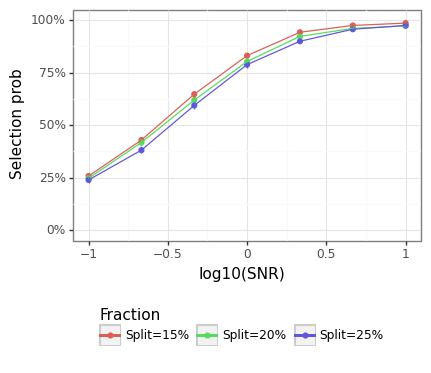
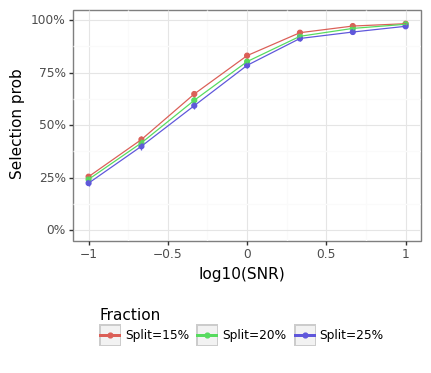
adding seeding to examples; splitting posi scripts for readability

Changed region(s): [[0.181, 0.2064, 0.5429, 0.5013], [0.5731, 0.059, 0.9652, 0.1769], [0.5429, 0.1769, 0.5731, 0.2064]]

diff --git a/sntn/_lasso.py b/sntn/_lasso.py
@@ -1,0 +1,139 @@
+"""
+Workhorse classes for doing marginal screening (posi_marginal_screen) and Lasso inference (posi_lasso)
+"""
+
+# External
+import numpy as np
+import pandas as pd
+from math import isclose
+from warnings import warn
+from glmnet.linear import ElasticNet
+from sklearn.model_selection import KFold
+# Internal
+from sntn.dists import tnorm, nts
+from sntn._split import _split_yx
+from sntn.utilities.linear import ols
+from sntn.utilities.utils import get_valid_kwargs_cls, cvec, rvec
+
+
+class _posi_lasso(_split_yx):
+    def __init__(self, lam:float, y:np.ndarray, x:np.ndarray, **kwargs):
+        super().__init__(y, x, **get_valid_kwargs_cls(_split_yx, **kwargs))
+        """
+        Carries out selective inference for the Lasso problem
+
+        Parameters
+        ==========
+        lam:                Regularization penality
+        y:                  (n,) array of responses
+        x:                  (n,p) array of covariates
+        **kwargs:           Passed into _split_yx(**kwargs), Lasso(**kwargs) and ols(**kwargs)
+        """
+        # Input checks
+        assert lam > 0, 'lam needs to be greater than zero'
+        self.lam = lam
+        # Run the Lasso
+        xtil, self.xmu_screen, self.xstd_screen = self._normalize_x(self.x_screen, return_mu_sd=True)
+        lam_max = np.max( np.abs(xtil.T.dot(self.y_screen)) / len(xtil) )
+        kwargs_lasso = {'alpha':1, 'n_splits':0, 'standardize':False, 'lambda_path':np.array([lam_max,lam])}
+        kwargs_lasso = {**kwargs_lasso, **get_valid_kwargs_cls(ElasticNet, **kwargs)}
+        self.mdl_lasso = ElasticNet(**kwargs_lasso)
+        self.mdl_lasso.fit(X=xtil, y=self.y_screen)
+        bhat_lasso = self.mdl_lasso.coef_path_[:,1]
+        self.cidx_screen = np.where(bhat_lasso != 0)[0]
+        self.n_cidx_screened = len(self.cidx_screen)
+        if self.n_cidx_screened >= 1:
+            # Fit an OLS model on the screened and split portion of the data
+            ols_kwargs = get_valid_kwargs_cls(ols, **kwargs)
+            self.ols_screen = ols(self.y_screen, self.x_screen[:,self.cidx_screen], **ols_kwargs)
+            if self.frac_split > 0:
+                n_split = self.x_split.shape[0]
+                if n_split > self.n_cidx_screened + 1:
+                    self.ols_split = ols(self.y_split, self.x_split[:,self.cidx_screen], **ols_kwargs)
+                else:
+                    warn(f'A total of {self.n_cidx_screened} columns were screened for testing, but we only have {n_split} observations (classical inference is not possible)')
+        else:
+            warn(f'No variables were screened')
+        
+
+    @staticmethod
+    def _normalize_x(x:np.ndarray, return_mu_sd:bool=False):
+        """Internal method to normalize x and store scaling terms, if necessary"""
+        mu, sd = x.mean(axis=0), x.std(axis=0)
+        xtil = (x-mu)/sd
+        if return_mu_sd:
+            return xtil, mu, sd
+        else:
+            return xtil
+
+
+    def estimate_sigma2(self, num_folds:int=5) -> None:
+        """
+        Estimates the variance of residual of the Lasso model. For the screened portion of the data, this amounts to doing k-fold CV
+
+        Parameters
+        ==========
+        num_folds:                  How many folds of CV to use (note that seed will be inherited from construction)
+
+        Attributes
+        ==========
+        sig2hat:                    Weighted average of the (unbiased) split estimate + CV-based screening
+        se_bhat_screen:             Standard error of the beta coefficients using sig2hat for the screened estimate
+        se_bhat_split:              Standard error of the beta coefficients using sig2hat from the split estimate (if frac_split>0)
+        """
+        # Estimate the variance using K-Fold CV
+        folder = KFold(n_splits=num_folds, shuffle=True, random_state=self.seed)
+        y_hat = np.zeros(self.y_screen.shape)
+        for ridx, tidx in folder.split(self.x_screen):
+            x_train, x_test = self.x_screen[ridx], self.x_screen[tidx]
+            y_train, y_test = self.y_screen[ridx], self.y_screen[tidx]
+            tmp_model = self.__class__(lam=self.lam, y=y_train, x=x_train, frac_split=0.0)
+            y_hat[tidx] = tmp_model.ols_screen.predict(x_test[:,tmp_model.cidx_screen])
+        sig2hat_screen = np.mean((self.y_screen - y_hat)**2)
+        
+        # If carving exists, use it
+        sig2hat_split = 0
+        if self.frac_split > 0:
+            sig2hat_split = self.ols_split.sig2hat
+        
+        # Use data-weighted final value
+        self.sig2hat = (1-self.frac_split)*sig2hat_screen + self.frac_split*sig2hat_split
+
+    def get_A(self) -> np.ndarray:
+        """
+        Calculates the A from Ay <= b for the Lasso procedure
+        
+        Returns
+        =======
+        mat_A:          A (..., n) matrix
+        """
+        # ...
+        breakpoint()
+        mat_A = np.zeros(10)
+        return mat_A
+        
+    def get_b(self) -> np.ndarray:
+        """
+        Calculates the b from Ay <= b for the Lasso procedure
+        
+        Returns
+        =======
+        vec_b:          A (..., ) array
+        """
+        # ...
+        vec_b = np.zeros(10)
+        return vec_b
+
+    def inference_on_screened(self, sigma2:float or int) -> tuple:
+        """
+        Runs post selection inference for the screened variables
+
+        Returns
+        =======
+        A tuple containing (alph_den, v_neg, v_pos) which is equivalent to the tnorm(; sigma2, a, b) terms
+        """
+        # See Lee (2016) for derivations of key terms
+        mat_A = self.get_A()
+        vec_b = self.get_b()
+        # x_s = self.x_screen[:,self.cidx_screen]
+

diff --git a/sntn/_screening.py b/sntn/_screening.py
@@ -1,5 +1,5 @@
 """
-Workhorse classes for doing marginal screening (posi_marginal_screen) and Lasso inference (posi_lasso)
+Workhorse class for doing marginal screening 
 """
 
 # External
@@ -7,100 +7,12 @@ import numpy as np
 import pandas as pd
 from math import isclose
 from warnings import warn
-from glmnet.linear import ElasticNet
 from sklearn.model_selection import KFold
 # Internal
 from sntn.dists import tnorm, nts
 from sntn._split import _split_yx
 from sntn.utilities.linear import ols
 from sntn.utilities.utils import get_valid_kwargs_cls, cvec, rvec
-
-
-class _posi_lasso(_split_yx):
-    def __init__(self, lam:float, y:np.ndarray, x:np.ndarray, **kwargs):
-        super().__init__(y, x, **get_valid_kwargs_cls(_split_yx, **kwargs))
-        """
-        Carries out selective inference for the Lasso problem
-
-        Parameters
-        ==========
-        lam:                Regularization penality
-        y:                  (n,) array of responses
-        x:                  (n,p) array of covariates
-        **kwargs:           Passed into _split_yx(**kwargs), Lasso(**kwargs) and ols(**kwargs)
-        """
-        # Input checks
-        assert lam > 0, 'lam needs to be greater than zero'
-        self.lam = lam
-        # Run the Lasso
-        xtil, self.xmu_screen, self.xstd_screen = self._normalize_x(self.x_screen, return_mu_sd=True)
-        lam_max = np.max( np.abs(xtil.T.dot(self.y_screen)) / len(xtil) )
-        kwargs_lasso = {'alpha':1, 'n_splits':0, 'standardize':False, 'lambda_path':np.array([lam_max,lam])}
-        kwargs_lasso = {**kwargs_lasso, **get_valid_kwargs_cls(ElasticNet, **kwargs)}
-        self.mdl_lasso = ElasticNet(**kwargs_lasso)
-        self.mdl_lasso.fit(X=xtil, y=self.y_screen)
-        bhat_lasso = self.mdl_lasso.coef_path_[:,1]
-        self.cidx_screen = np.where(bhat_lasso != 0)[0]
-        self.n_cidx_screened = len(self.cidx_screen)
-        if self.n_cidx_screened >= 1:
-            # Fit an OLS model on the screened and split portion of the data
-            ols_kwargs = get_valid_kwargs_cls(ols, **kwargs)
-            self.ols_screen = ols(self.y_screen, self.x_screen[:,self.cidx_screen], **ols_kwargs)
-            if self.frac_split > 0:
-                n_split = self.x_split.shape[0]
-                if n_split > self.n_cidx_screened + 1:
-                    self.ols_split = ols(self.y_split, self.x_split[:,self.cidx_screen], **ols_kwargs)
-                else:
-                    warn(f'A total of {self.n_cidx_screened} columns were screened for testing, but we only have {n_split} observations (classical inference is not possible)')
-        else:
-            warn(f'No variables were screened')
-        
-
-    @staticmethod
-    def _normalize_x(x:np.ndarray, return_mu_sd:bool=False):
-        """Internal method to normalize x and store scaling terms, if necessary"""
-        mu, sd = x.mean(axis=0), x.std(axis=0)
-        xtil = (x-mu)/sd
-        if return_mu_sd:
-            return xtil, mu, sd
-        else:
-            return xtil
-
-
-    def estimate_sigma2(self, num_folds:int=5) -> None:
-        """
-        Estimates the variance of residual of the Lasso model. For the screened portion of the data, this amounts to doing k-fold CV
-
-        Parameters
-        ==========
-        num_folds:                  How many folds of CV to use (note that seed will be inherited from construction)
-
-        Attributes
-        ==========
-        sig2hat:                    Weighted average of the (unbiased) split estimate + CV-based screening
-        se_bhat_screen:             Standard error of the beta coefficients using sig2hat for the screened estimate
-        se_bhat_split:              Standard error of the beta coefficients using sig2hat from the split estimate (if frac_split>0)
-        """
-        # Estimate the variance using K-Fold CV
-        folder = KFold(n_splits=num_folds, shuffle=True, random_state=self.seed)
-        y_hat = np.zeros(self.y_screen.shape)
-        for ridx, tidx in folder.split(self.x_screen):
-            x_train, x_test = self.x_screen[ridx], self.x_screen[tidx]
-            y_train, y_test = self.y_screen[ridx], self.y_screen[tidx]
-            tmp_model = self.__class__(lam=self.lam, y=y_train, x=x_train, frac_split=0.0)
-            y_hat[tidx] = tmp_model.ols_screen.predict(x_test[:,tmp_model.cidx_screen])
-        sig2hat_screen = np.mean((self.y_screen - y_hat)**2)
-        
-        # If carving exists, use it
-        sig2hat_split = 0
-        if self.frac_split > 0:
-            sig2hat_split = self.ols_split.sig2hat
-        
-        # Use data-weighted final value
-        self.sig2hat = (1-self.frac_split)*sig2hat_screen + self.frac_split*sig2hat_split
-
-
-
 
 
 

diff --git a/examples/4_lasso.py b/examples/4_lasso.py
@@ -48,18 +48,43 @@ for j, snr in enumerate(snr_seq):
     for i in range(nsim):
         # Draw data
         idx += 1
-        y, x, beta0, beta1 = dgp_sparse_yX(n, p, s, intercept=b0, snr=snr, seed=idx+3500, return_params=True)
+        y, x, beta0, beta1 = dgp_sparse_yX(n, p, s, intercept=b0, snr=snr, seed=idx, return_params=True)
         # Approximate lambda-max
         # Loop over the difference frac to split
         lam_max_approx = np.max(np.abs(np.dot( ((x - x.mean(0))/x.std(0)).T, y)) / len(x) )
         lam_approx = lam_max_approx * lam_max_frac
         for frac_split in frac_split_seq:
             # (i) Split x into screening and split
-            split_lasso = lasso(lam_approx, y, x, frac_split=frac_split)
+            split_lasso = lasso(lam_approx, y, x, frac_split=frac_split, seed=idx)
             dat_nsel = pd.DataFrame({'sim':i,'snr':snr, 'p':split_lasso.n_cidx_screened,'frac':frac_split},index=[idx])
             holder_nsel.append(dat_nsel)
 
+            # (ii) Calculate the ground truth parameters on "selected" model
+            idx_noise = ~(np.array(split_lasso.cidx_screen) < s)
+            n_screened = np.sum(~idx_noise)
+            sigma2_gt = 1 + (s-n_screened)*beta1[0]**2
+            beta_gt = np.where(idx_noise, 0, beta1[0])
+
+            # (iii) Do naive inference (type-I errors shuold be inflated)
+            split_lasso.ols_screen.run_inference(alpha, 0, sigma2_gt)
+            ols_naive_i = split_lasso.ols_screen.res_inf.assign(cidx=split_lasso.cidx_screen, mdl='naive')
+            ols_naive_i = ols_naive_i[['bhat','pval','cidx','mdl']]
             
+            # (iv) Run PoSI inference for screened data
+            any_split = frac_split > 0
+            split_lasso.run_inference(alpha, 0, sigma2_gt, run_carve=any_split, run_split=any_split, run_ci=False)
+            tnorm_screen_i = split_lasso.res_screen.assign(cidx=split_marginal.cidx_screen, mdl='screen')
+            
+            # nts_carve_i, gauss_split_i = pd.DataFrame({}), pd.DataFrame({})
+            # if any_split:
+            #     gauss_split_i = split_marginal.res_split.drop(columns=['lb','ub']).assign(mdl='split')
+            #     nts_carve_i = split_marginal.res_carve.assign(cidx=split_marginal.cidx_screen, mdl='carve')
+            # # Combine and save
+            # res_screen_i = pd.concat(objs=[ols_naive_i, tnorm_screen_i, gauss_split_i, nts_carve_i])
+            # res_screen_i = res_screen_i.assign(snr=snr, sim=i, frac_split=frac_split)
+            # holder_sim.append(res_screen_i)
+
+        breakpoint()
         if idx % 25 == 0:
             dtime = time() - stime
             rate = idx / dtime

diff --git a/examples/3_marginal_screening.py b/examples/3_marginal_screening.py
@@ -48,11 +48,11 @@ for j, snr in enumerate(snr_seq):
     for i in range(nsim):
         # Draw data
         idx += 1
-        y, x, beta0, beta1 = dgp_sparse_yX(n, p, s, intercept=b0, snr=snr, seed=idx+3500, return_params=True)
+        y, x, beta0, beta1 = dgp_sparse_yX(n, p, s, intercept=b0, snr=snr, seed=idx, return_params=True)
         # Loop over the difference frac to split
         for frac_split in frac_split_seq:
             # (i) Split x into screening and split
-            split_marginal = marginal_screen(k, y, x, frac_split=frac_split)
+            split_marginal = marginal_screen(k, y, x, frac_split=frac_split, seed=idx)
             
             # (ii) Calculate the ground truth parameters on "selected" model
             idx_noise = ~(np.array(split_marginal.cidx_screen) < s)

diff --git a/sntn/posi.py b/sntn/posi.py
@@ -5,7 +5,8 @@ Post selection inference classes (wrapper for workhorse classes)
 # External
 import numpy as np
 # Internal
-from sntn._posi import _posi_marginal_screen, _posi_lasso
+from sntn._screening import _posi_marginal_screen
+from sntn._lasso import _posi_lasso
 
 
 """See _posi_lasso and _data_carve from sntn._posi"""
